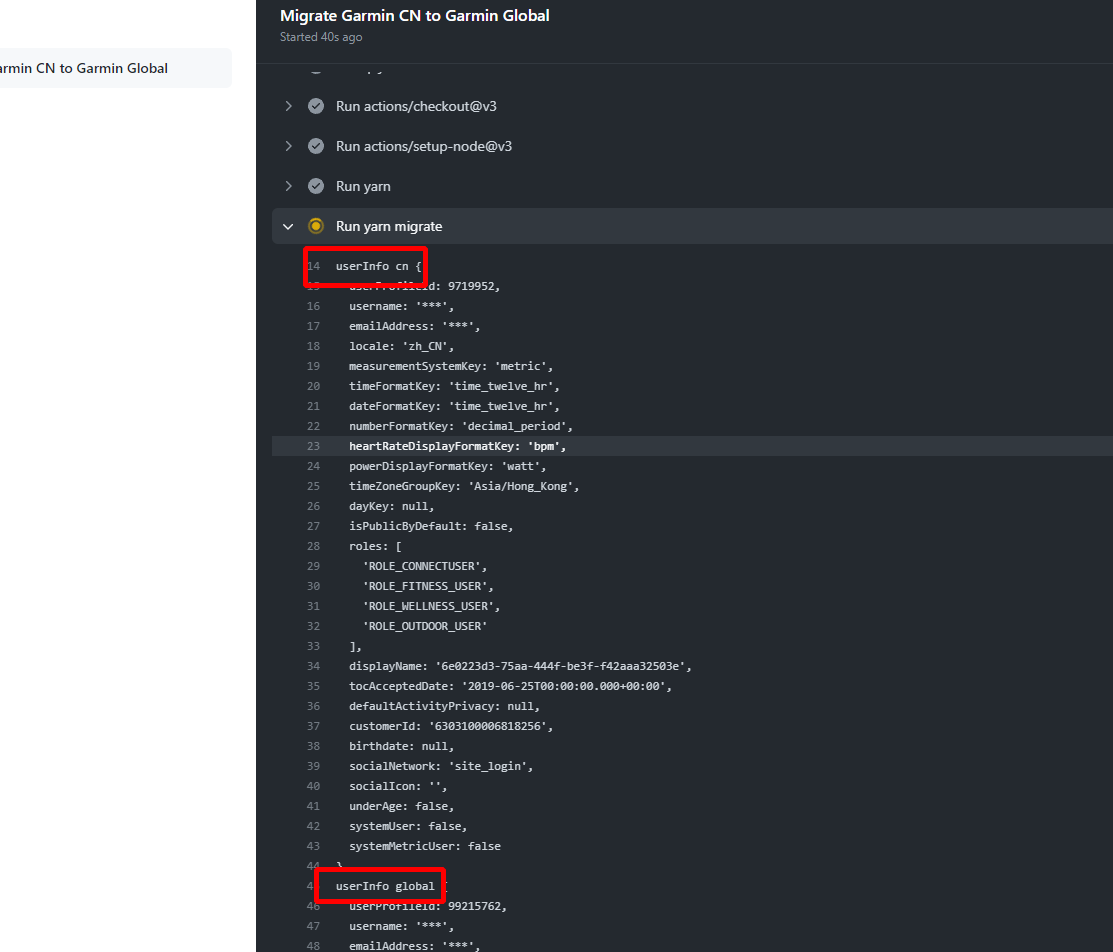
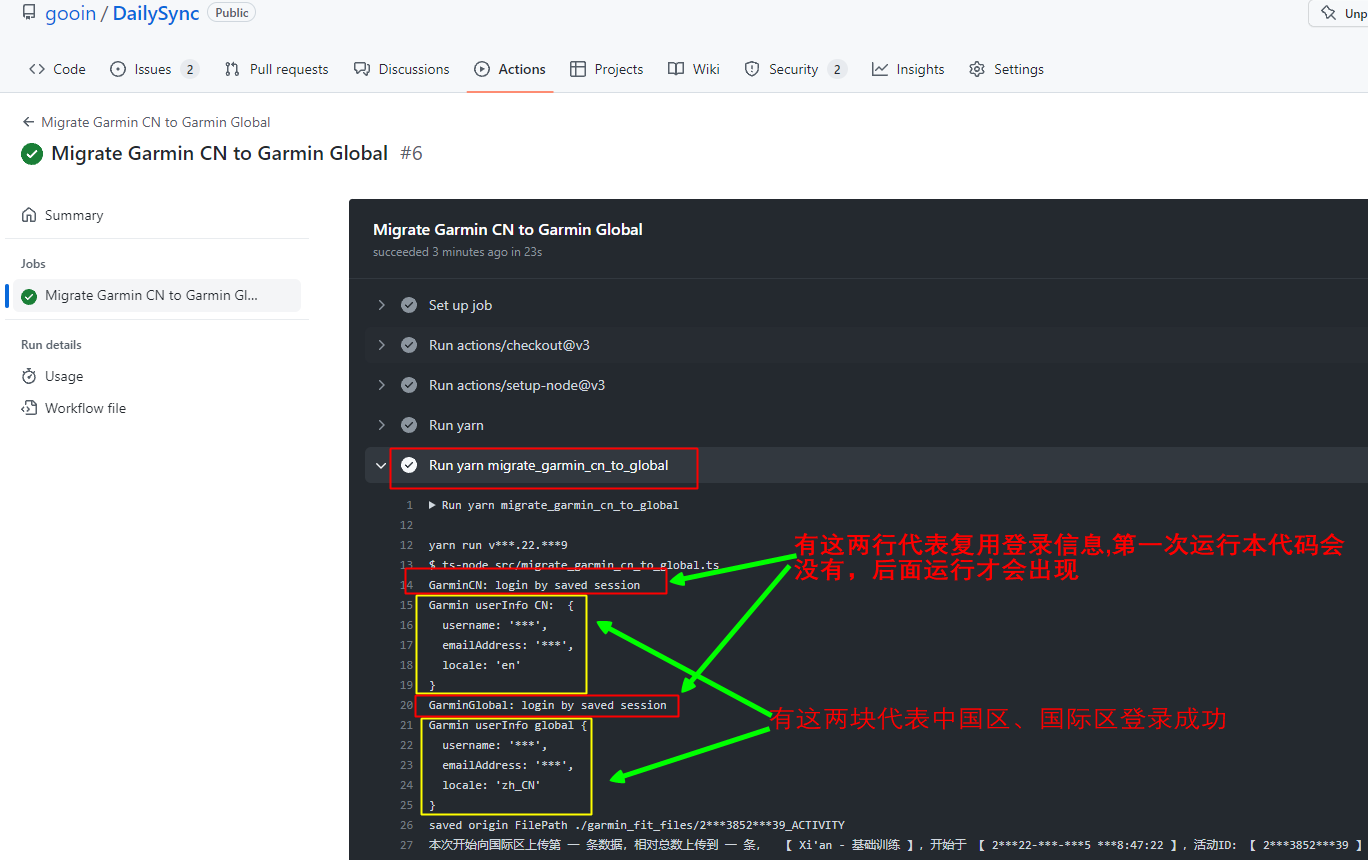
doc: update

diff --git a/README.md b/README.md
@@ -216,18 +216,26 @@
 
 #### Step3: 手动迁移已有数据
 
-如下图，点击【Actions】--> 【 Migrate Garmin CN to Garmin 】 --> 【Run workflow】执行迁移数据
+对应的Actions，按需选择运行
+
+`Migrate Garmin CN to Garmin Global(中国区到国际区)`
+
+`Migrate Garmin Global to Garmin CN（国际区到中国区）`
+
+这里以中国区到国际区为例，如下图，点击`Actions`--> `Migrate Garmin CN to Garmin Global(中国区到国际区)`  --> `Run workflow` 执行迁移数据
 ![migrate](./assets/migrate.jpg)
+
 点击后刷新页面，可以看到正在执行的任务：
 ![migrating](./assets/migrating.jpg)
-点进去后可以查看日志，如果 Run yarn migrate那一栏看到 userInfo cn 和 userInfo Global, 并且数据持续在滚动刷新，就说明正常运行
+
+点进去后可以查看日志，如果 `Run yarn migrate_garmin_cn_to_global`那一栏看到 `Garmin userInfo CN` 和 `Garmin userInfo global`, 并且数据持续在滚动刷新，就说明正常运行
 ![test_migrate](./assets/test_migrate.png)
 ![log](./assets/log.jpg)
 
 如果上面一切正常，运行结束后，前面会是一个绿色，代表运行完成。
 ![migrated](./assets/migrated.png)
 
-这个时候，去佳明国际区和strava看看，是否有1条数据迁移过来，如果没有，代表有问题，请联系我咨询，如果有，代表正常运行。
+这个时候，去佳明国际区和`strava`看看，是否有1条数据迁移过来，如果没有，代表有问题，请联系我咨询，如果有，代表正常运行。
 
 (这一块如果看文字不是很清楚到话去看看文章开始部分的视频教程，参照看看)
 
@@ -269,20 +277,33 @@ upload to garmin activity {
 
 #### Step4: 自动同步新的运动数据
 
-如图点击开启workflow
+对应的Actions，按需选择运行
+
+`Sync Garmin CN to Garmin Global (中国区到国际区)`
+
+`Sync Garmin Global to Garmin CN（国际区到中国区）`
+
+下面以中国区到国际区为例
+
+如图点击开启`workflow`
 ![enable_workflow](./assets/enable_workflow.jpg)
-开启后无需额外配置，除早上外，其他时候大约每30分钟左右自动同步一次数据，一段时间后可以查看同步记录.
-邮件偶尔会收到执行失败的通知，不用管哈
-如果有问题，请发邮件联系我
+
+**开启后无需额外配置，除早上外，其他时候大约每30分钟左右自动同步一次数据，一段时间后可以查看同步记录.**
 ![sync](./assets/sync.jpg)
+
+至此，所有工作完毕，强烈建议阅读完下方的`FAQ`部分，您后期可能遇到的大部分问题都会有解答。
+
+
 
 #### FAQ:
 
 ##### 数据没有同步成功？
 
-第一步请先检查手机connect，确保运动在connect看到才能进行后续的同步工作。
+可能的原因：
 
-还有可能是定时执行没有执行，可以像执行MIGRATE那样手动执行SYNC脚本手动触发同步。
+1. 请先检查手机`connect`，确保运动在`connect`看到才能进行后续的同步工作。
+2. 定时执行没有执行，可以像执行`MIGRATE`那样手动执行`Sync Garmin CN to Garmin Global (中国区到国际区)`或者`Sync Garmin Global to Garmin CN（国际区到中国区）` 来手动触发同步。可以将Github的地址在手机上存个书签，运动完手动运行一下`Sync`就能立刻同步了。
+3. 检查佳明服务器状态 [https://connect.garmin.com/status](https://connect.garmin.com/status)
 
 ##### 数据同步为什么没有按计划执行，有的时候一小时才执行了2次？
 
@@ -331,10 +352,18 @@ upload to garmin activity {
 
 ![update_code](./assets/cron.png)
 
-##### 同步最新的代码库
-
+##### 同步最新的代码库(更新代码)
 代码可能有优化更新，如看到下图的情况，请点击下图红框更新到最新的代码，
 ![update_code](./assets/update_code.jpg)
+
+##### 收到`Github`执行失败的邮件
+佳明接口偶尔抽风导致失败，不用管。
+![action_failed](./assets/action_failed.png)
+
+##### 关闭自动同步
+如图操作即可
+![disable_sync](./assets/disable_sync.png)
+
 
 ## 数据同步到佳明国际区后，其他的一些可关联的运动分析平台
 
